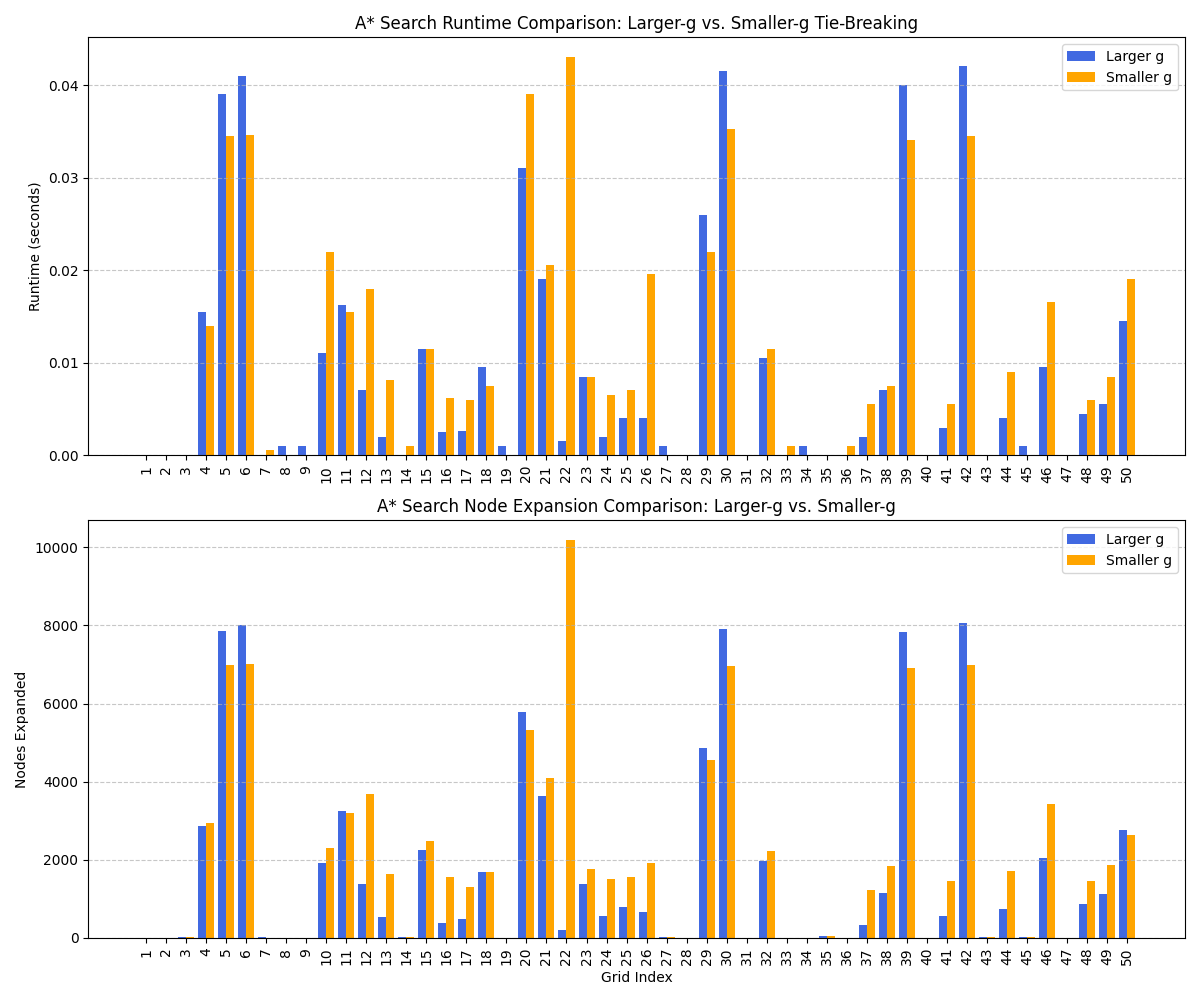
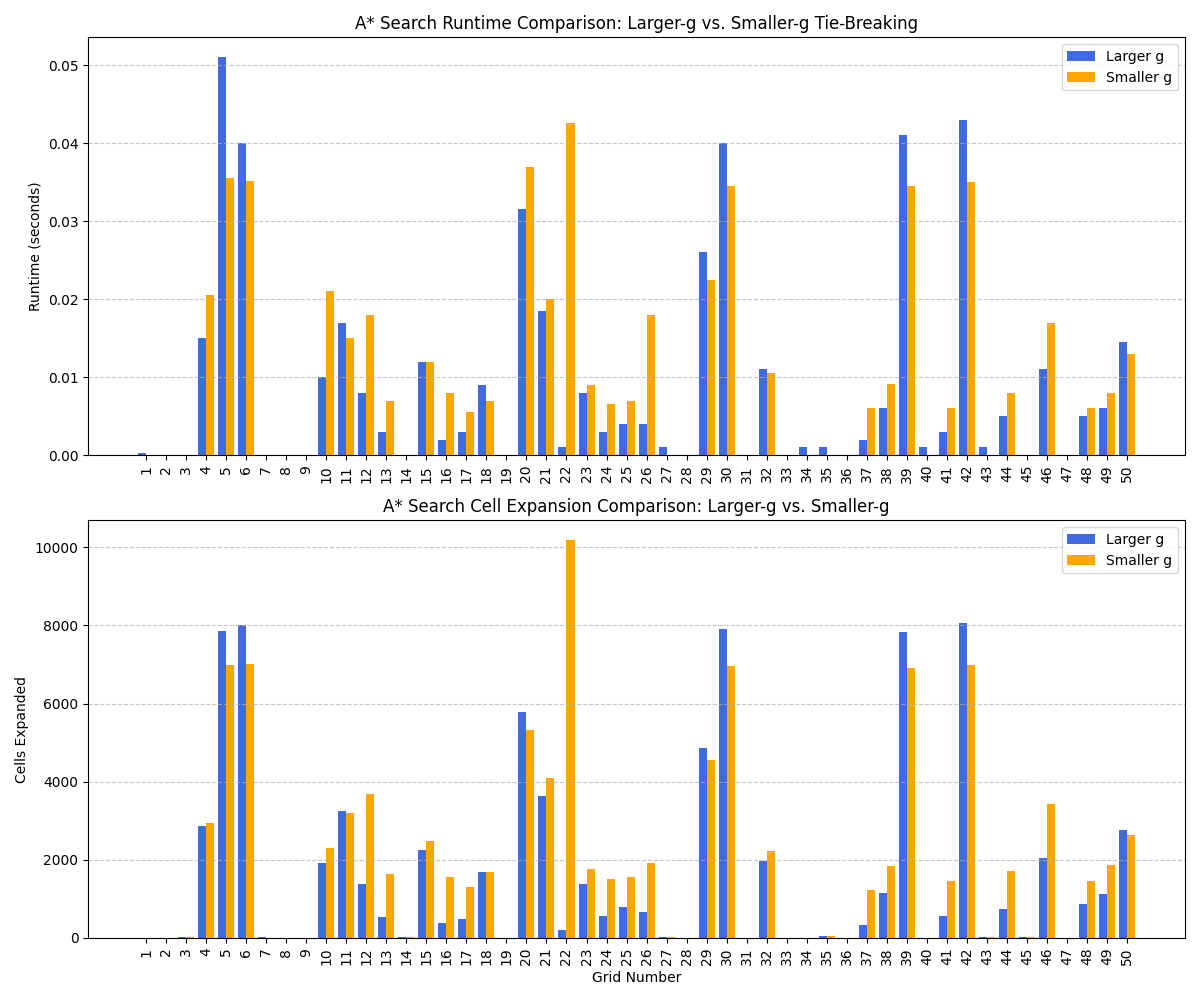
minor updates

diff --git a/src/RunTests.py b/src/RunTests.py
@@ -68,9 +68,9 @@ axes[0].grid(axis="y", linestyle="--", alpha=0.7)
 # Bar Graph for Expanded Nodes
 axes[1].bar(grid_indices - bar_width/2, larger_g_expanded, bar_width, label="Larger g", color="royalblue")
 axes[1].bar(grid_indices + bar_width/2, smaller_g_expanded, bar_width, label="Smaller g", color="orange")
-axes[1].set_xlabel("Grid Index")
-axes[1].set_ylabel("Nodes Expanded")
-axes[1].set_title("A* Search Node Expansion Comparison: Larger-g vs. Smaller-g")
+axes[1].set_xlabel("Grid Number")
+axes[1].set_ylabel("Cells Expanded")
+axes[1].set_title("A* Search Cell Expansion Comparison: Larger-g vs. Smaller-g")
 axes[1].legend()
 axes[1].set_xticks(grid_indices)
 axes[1].set_xticklabels(grid_indices, rotation=90)
